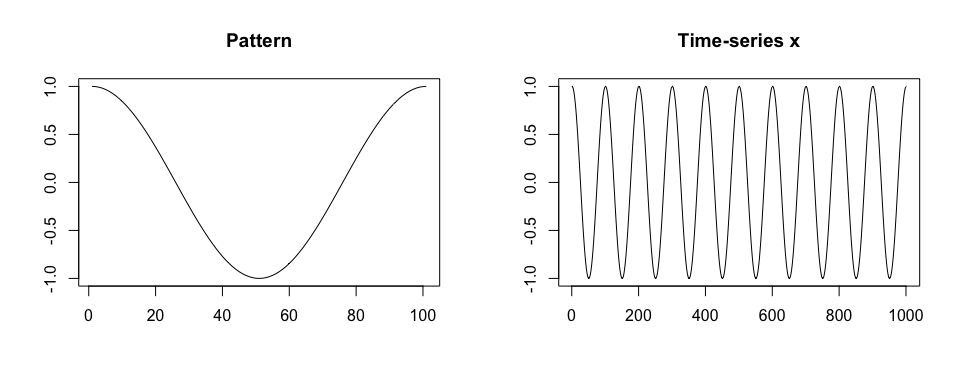
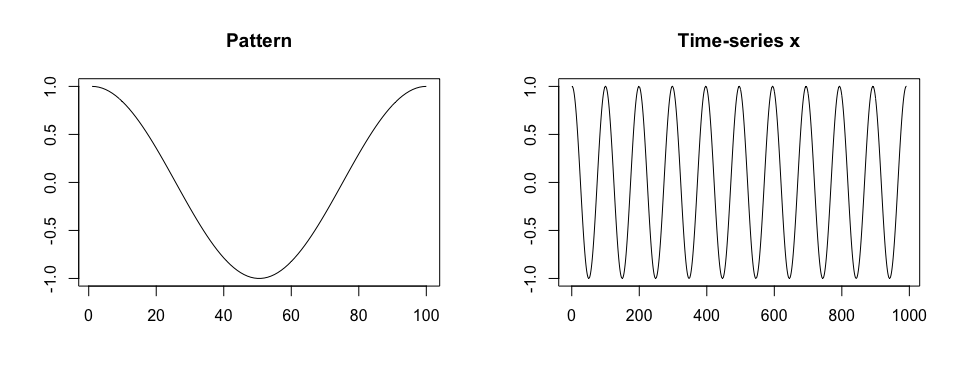
Update readme

diff --git a/docs/index.html b/docs/index.html
@@ -91,7 +91,11 @@
     
 
 <!-- README.md is generated from README.Rmd. Please edit that file -->
-<p>The <code>adept</code> package implements ADaptive Empirical Pattern Transformation (ADEPT) method<a href="#fn1" class="footnote-ref" id="fnref1"><sup>1</sup></a> for pattern segmentation from a time-series. ADEPT is designed to perform fast, accurate walking strides segmentation from high-density data collected with a wearable accelerometer during walking.</p>
+<div id="overview" class="section level3">
+<h3 class="hasAnchor">
+<a href="#overview" class="anchor"></a>Overview</h3>
+<p>The <code>adept</code> package implements ADaptive Empirical Pattern Transformation (ADEPT) method<a href="#fn1" class="footnote-ref" id="fnref1"><sup>1</sup></a> for pattern segmentation from a time-series. ADEPT is optimized to perform fast, accurate walking strides segmentation from high-density data collected with a wearable accelerometer during walking.</p>
+</div>
 <div id="installation" class="section level3">
 <h3 class="hasAnchor">
 <a href="#installation" class="anchor"></a>Installation</h3>
@@ -102,59 +106,59 @@
 <div id="example-1" class="section level3">
 <h3 class="hasAnchor">
 <a href="#example-1" class="anchor"></a>Example 1</h3>
-<p>Simulate a time-series <code>x</code>; assume that <code>x</code> is collected frequency of 100 Hz, there is one pattern of a fixed duration 1.01 seconds present in <code>x</code>, and there is no noise in collected data.</p>
-<div class="sourceCode" id="cb2"><pre class="sourceCode r"><code class="sourceCode r"><a class="sourceLine" id="cb2-1" title="1"><span class="kw"><a href="https://www.rdocumentation.org/packages/base/topics/library">library</a></span>(adept)</a>
-<a class="sourceLine" id="cb2-2" title="2"></a>
-<a class="sourceLine" id="cb2-3" title="3">x &lt;-<span class="st"> </span><span class="kw"><a href="https://www.rdocumentation.org/packages/base/topics/Trig">cos</a></span>(<span class="kw"><a href="https://www.rdocumentation.org/packages/base/topics/seq">seq</a></span>(<span class="dv">0</span>, <span class="dv">2</span> <span class="op">*</span><span class="st"> </span>pi <span class="op">*</span><span class="st"> </span><span class="dv">10</span>, <span class="dt">length.out =</span> <span class="dv">1001</span>))</a>
-<a class="sourceLine" id="cb2-4" title="4">true.pattern &lt;-<span class="st"> </span>x[<span class="dv">1</span><span class="op">:</span><span class="dv">101</span>]</a>
-<a class="sourceLine" id="cb2-5" title="5"></a>
-<a class="sourceLine" id="cb2-6" title="6"><span class="kw"><a href="https://www.rdocumentation.org/packages/graphics/topics/par">par</a></span>(<span class="dt">mfrow =</span> <span class="kw"><a href="https://www.rdocumentation.org/packages/base/topics/c">c</a></span>(<span class="dv">1</span>,<span class="dv">2</span>), <span class="dt">cex =</span> <span class="dv">1</span>)</a>
-<a class="sourceLine" id="cb2-7" title="7"><span class="kw"><a href="https://www.rdocumentation.org/packages/graphics/topics/plot">plot</a></span>(true.pattern, <span class="dt">type =</span> <span class="st">"l"</span>, <span class="dt">xlab =</span> <span class="st">""</span>, <span class="dt">ylab =</span> <span class="st">""</span>, <span class="dt">main =</span> <span class="st">"Pattern"</span>)</a>
-<a class="sourceLine" id="cb2-8" title="8"><span class="kw"><a href="https://www.rdocumentation.org/packages/graphics/topics/plot">plot</a></span>(x, <span class="dt">type =</span> <span class="st">"l"</span>, <span class="dt">xlab =</span> <span class="st">""</span>, <span class="dt">ylab =</span> <span class="st">""</span>, <span class="dt">main =</span> <span class="st">"Time-series x"</span>)</a></code></pre></div>
+<p>Simulate a time-series <code>x</code>; assume that <code>x</code> is collected frequency of 100 Hz, there is one pattern of a fixed duration of 1.0 seconds present in <code>x</code>, and there is no noise in collected data.</p>
+<div class="sourceCode" id="cb2"><pre class="sourceCode r"><code class="sourceCode r"><a class="sourceLine" id="cb2-1" title="1">true.pattern &lt;-<span class="st"> </span><span class="kw"><a href="https://www.rdocumentation.org/packages/base/topics/Trig">cos</a></span>(<span class="kw"><a href="https://www.rdocumentation.org/packages/base/topics/seq">seq</a></span>(<span class="dv">0</span>, <span class="dv">2</span> <span class="op">*</span><span class="st"> </span>pi, <span class="dt">length.out =</span> <span class="dv">100</span>))</a>
+<a class="sourceLine" id="cb2-2" title="2">x &lt;-<span class="st"> </span><span class="kw"><a href="https://www.rdocumentation.org/packages/base/topics/c">c</a></span>(true.pattern[<span class="dv">1</span>], <span class="kw"><a href="https://www.rdocumentation.org/packages/base/topics/lapply">replicate</a></span>(<span class="dv">10</span>, true.pattern[<span class="op">-</span><span class="dv">1</span>]))</a>
+<a class="sourceLine" id="cb2-3" title="3"></a>
+<a class="sourceLine" id="cb2-4" title="4"><span class="kw"><a href="https://www.rdocumentation.org/packages/graphics/topics/par">par</a></span>(<span class="dt">mfrow =</span> <span class="kw"><a href="https://www.rdocumentation.org/packages/base/topics/c">c</a></span>(<span class="dv">1</span>,<span class="dv">2</span>), <span class="dt">cex =</span> <span class="dv">1</span>)</a>
+<a class="sourceLine" id="cb2-5" title="5"><span class="kw"><a href="https://www.rdocumentation.org/packages/graphics/topics/plot">plot</a></span>(true.pattern, <span class="dt">type =</span> <span class="st">"l"</span>, <span class="dt">xlab =</span> <span class="st">""</span>, <span class="dt">ylab =</span> <span class="st">""</span>, <span class="dt">main =</span> <span class="st">"Pattern"</span>)</a>
+<a class="sourceLine" id="cb2-6" title="6"><span class="kw"><a href="https://www.rdocumentation.org/packages/graphics/topics/plot">plot</a></span>(x, <span class="dt">type =</span> <span class="st">"l"</span>, <span class="dt">xlab =</span> <span class="st">""</span>, <span class="dt">ylab =</span> <span class="st">""</span>, <span class="dt">main =</span> <span class="st">"Time-series x"</span>)</a></code></pre></div>
 <p><img src="reference/figures/README-unnamed-chunk-2-1.png" width="100%"></p>
-<p>Segment pattern from data. Assume perfect template is available. Use grid of potential pattern durations of {0.9, 1, 1.1} seconds.</p>
-<div class="sourceCode" id="cb3"><pre class="sourceCode r"><code class="sourceCode r"><a class="sourceLine" id="cb3-1" title="1"><span class="kw"><a href="reference/segmentPattern.html">segmentPattern</a></span>(</a>
-<a class="sourceLine" id="cb3-2" title="2">  <span class="dt">x =</span> x,</a>
-<a class="sourceLine" id="cb3-3" title="3">  <span class="dt">x.fs =</span> <span class="dv">100</span>,</a>
-<a class="sourceLine" id="cb3-4" title="4">  <span class="dt">template =</span> true.pattern,</a>
-<a class="sourceLine" id="cb3-5" title="5">  <span class="dt">pattern.dur.seq =</span> <span class="kw"><a href="https://www.rdocumentation.org/packages/base/topics/c">c</a></span>(<span class="fl">0.9</span>, <span class="dv">1</span>, <span class="fl">1.1</span>),</a>
-<a class="sourceLine" id="cb3-6" title="6">  <span class="dt">similarity.measure =</span> <span class="st">"cor"</span>,</a>
-<a class="sourceLine" id="cb3-7" title="7">  <span class="dt">compute.template.idx =</span> <span class="ot">TRUE</span>)</a>
-<a class="sourceLine" id="cb3-8" title="8"><span class="co">#&gt;    tau_i T_i     sim_i template_i</span></a>
-<a class="sourceLine" id="cb3-9" title="9"><span class="co">#&gt; 1      1 100 0.9994793          1</span></a>
-<a class="sourceLine" id="cb3-10" title="10"><span class="co">#&gt; 2    101 100 0.9994793          1</span></a>
-<a class="sourceLine" id="cb3-11" title="11"><span class="co">#&gt; 3    201 100 0.9994793          1</span></a>
-<a class="sourceLine" id="cb3-12" title="12"><span class="co">#&gt; 4    302 100 0.9994793          1</span></a>
-<a class="sourceLine" id="cb3-13" title="13"><span class="co">#&gt; 5    401 100 0.9994793          1</span></a>
-<a class="sourceLine" id="cb3-14" title="14"><span class="co">#&gt; 6    501 100 0.9994793          1</span></a>
-<a class="sourceLine" id="cb3-15" title="15"><span class="co">#&gt; 7    601 100 0.9994793          1</span></a>
-<a class="sourceLine" id="cb3-16" title="16"><span class="co">#&gt; 8    701 100 0.9994793          1</span></a>
-<a class="sourceLine" id="cb3-17" title="17"><span class="co">#&gt; 9    801 100 0.9994793          1</span></a>
-<a class="sourceLine" id="cb3-18" title="18"><span class="co">#&gt; 10   901 100 0.9994793          1</span></a></code></pre></div>
-<p>Assume grid of potential pattern durations of {0.9, 1.01, 1.1} seconds (the grid is now “perfect” in a sense it contains duration of the true pattern used in data simulation).</p>
+<p>Segment pattern from data. Assume that a perfect template is available. Use grid of potential pattern durations of {0.9, 0.95, 1.03, 1.1} seconds; the grid is imperfect in a sense it does not contain duration of the true pattern used in time-series <code>x</code> simulation.</p>
+<div class="sourceCode" id="cb3"><pre class="sourceCode r"><code class="sourceCode r"><a class="sourceLine" id="cb3-1" title="1"><span class="kw"><a href="https://www.rdocumentation.org/packages/base/topics/library">library</a></span>(adept)</a>
+<a class="sourceLine" id="cb3-2" title="2"></a>
+<a class="sourceLine" id="cb3-3" title="3"><span class="kw"><a href="reference/segmentPattern.html">segmentPattern</a></span>(</a>
+<a class="sourceLine" id="cb3-4" title="4">  <span class="dt">x =</span> x,</a>
+<a class="sourceLine" id="cb3-5" title="5">  <span class="dt">x.fs =</span> <span class="dv">100</span>,</a>
+<a class="sourceLine" id="cb3-6" title="6">  <span class="dt">template =</span> true.pattern,</a>
+<a class="sourceLine" id="cb3-7" title="7">  <span class="dt">pattern.dur.seq =</span> <span class="kw"><a href="https://www.rdocumentation.org/packages/base/topics/c">c</a></span>(<span class="fl">0.9</span>, <span class="fl">0.95</span>, <span class="fl">1.03</span>, <span class="fl">1.1</span>),</a>
+<a class="sourceLine" id="cb3-8" title="8">  <span class="dt">similarity.measure =</span> <span class="st">"cor"</span>,</a>
+<a class="sourceLine" id="cb3-9" title="9">  <span class="dt">compute.template.idx =</span> <span class="ot">TRUE</span>)</a>
+<a class="sourceLine" id="cb3-10" title="10"><span class="co">#&gt;    tau_i T_i     sim_i template_i</span></a>
+<a class="sourceLine" id="cb3-11" title="11"><span class="co">#&gt; 1      4  95 0.9987941          1</span></a>
+<a class="sourceLine" id="cb3-12" title="12"><span class="co">#&gt; 2     98 103 0.9992482          1</span></a>
+<a class="sourceLine" id="cb3-13" title="13"><span class="co">#&gt; 3    202  95 0.9987941          1</span></a>
+<a class="sourceLine" id="cb3-14" title="14"><span class="co">#&gt; 4    297 103 0.9992482          1</span></a>
+<a class="sourceLine" id="cb3-15" title="15"><span class="co">#&gt; 5    399  95 0.9987941          1</span></a>
+<a class="sourceLine" id="cb3-16" title="16"><span class="co">#&gt; 6    495 103 0.9992482          1</span></a>
+<a class="sourceLine" id="cb3-17" title="17"><span class="co">#&gt; 7    597  95 0.9987941          1</span></a>
+<a class="sourceLine" id="cb3-18" title="18"><span class="co">#&gt; 8    697  95 0.9987941          1</span></a>
+<a class="sourceLine" id="cb3-19" title="19"><span class="co">#&gt; 9    792 103 0.9992482          1</span></a>
+<a class="sourceLine" id="cb3-20" title="20"><span class="co">#&gt; 10   894  95 0.9987941          1</span></a></code></pre></div>
+<p>Assume grid of potential pattern durations of {0.9, 0.95, 1, 1.03, 1.1} seconds. The grid is now perfect in a sense it contains the duration of the true pattern used in data simulation. A perfect match <code>sim_i=1</code> between a time-series <code>x</code> and a template is reached.</p>
 <div class="sourceCode" id="cb4"><pre class="sourceCode r"><code class="sourceCode r"><a class="sourceLine" id="cb4-1" title="1"><span class="kw"><a href="reference/segmentPattern.html">segmentPattern</a></span>(</a>
 <a class="sourceLine" id="cb4-2" title="2">  <span class="dt">x =</span> x,</a>
 <a class="sourceLine" id="cb4-3" title="3">  <span class="dt">x.fs =</span> <span class="dv">100</span>,</a>
 <a class="sourceLine" id="cb4-4" title="4">  <span class="dt">template =</span> true.pattern,</a>
-<a class="sourceLine" id="cb4-5" title="5">  <span class="dt">pattern.dur.seq =</span> <span class="kw"><a href="https://www.rdocumentation.org/packages/base/topics/c">c</a></span>(<span class="fl">0.9</span>, <span class="fl">1.01</span>, <span class="fl">1.1</span>),</a>
+<a class="sourceLine" id="cb4-5" title="5">  <span class="dt">pattern.dur.seq =</span> <span class="kw"><a href="https://www.rdocumentation.org/packages/base/topics/c">c</a></span>(<span class="fl">0.9</span>, <span class="fl">0.95</span>, <span class="dv">1</span>, <span class="fl">1.03</span>, <span class="fl">1.1</span>),</a>
 <a class="sourceLine" id="cb4-6" title="6">  <span class="dt">similarity.measure =</span> <span class="st">"cor"</span>,</a>
 <a class="sourceLine" id="cb4-7" title="7">  <span class="dt">compute.template.idx =</span> <span class="ot">TRUE</span>)</a>
 <a class="sourceLine" id="cb4-8" title="8"><span class="co">#&gt;    tau_i T_i sim_i template_i</span></a>
-<a class="sourceLine" id="cb4-9" title="9"><span class="co">#&gt; 1      1 101     1          1</span></a>
-<a class="sourceLine" id="cb4-10" title="10"><span class="co">#&gt; 2    101 101     1          1</span></a>
-<a class="sourceLine" id="cb4-11" title="11"><span class="co">#&gt; 3    201 101     1          1</span></a>
-<a class="sourceLine" id="cb4-12" title="12"><span class="co">#&gt; 4    301 101     1          1</span></a>
-<a class="sourceLine" id="cb4-13" title="13"><span class="co">#&gt; 5    401 101     1          1</span></a>
-<a class="sourceLine" id="cb4-14" title="14"><span class="co">#&gt; 6    501 101     1          1</span></a>
-<a class="sourceLine" id="cb4-15" title="15"><span class="co">#&gt; 7    601 101     1          1</span></a>
-<a class="sourceLine" id="cb4-16" title="16"><span class="co">#&gt; 8    701 101     1          1</span></a>
-<a class="sourceLine" id="cb4-17" title="17"><span class="co">#&gt; 9    801 101     1          1</span></a>
-<a class="sourceLine" id="cb4-18" title="18"><span class="co">#&gt; 10   901 101     1          1</span></a></code></pre></div>
+<a class="sourceLine" id="cb4-9" title="9"><span class="co">#&gt; 1      1 100     1          1</span></a>
+<a class="sourceLine" id="cb4-10" title="10"><span class="co">#&gt; 2    100 100     1          1</span></a>
+<a class="sourceLine" id="cb4-11" title="11"><span class="co">#&gt; 3    199 100     1          1</span></a>
+<a class="sourceLine" id="cb4-12" title="12"><span class="co">#&gt; 4    298 100     1          1</span></a>
+<a class="sourceLine" id="cb4-13" title="13"><span class="co">#&gt; 5    397 100     1          1</span></a>
+<a class="sourceLine" id="cb4-14" title="14"><span class="co">#&gt; 6    496 100     1          1</span></a>
+<a class="sourceLine" id="cb4-15" title="15"><span class="co">#&gt; 7    595 100     1          1</span></a>
+<a class="sourceLine" id="cb4-16" title="16"><span class="co">#&gt; 8    694 100     1          1</span></a>
+<a class="sourceLine" id="cb4-17" title="17"><span class="co">#&gt; 9    793 100     1          1</span></a>
+<a class="sourceLine" id="cb4-18" title="18"><span class="co">#&gt; 10   892 100     1          1</span></a></code></pre></div>
 </div>
 <div id="example-2" class="section level3">
 <h3 class="hasAnchor">
 <a href="#example-2" class="anchor"></a>Example 2</h3>
-<p>Simulate a time-series <code>x</code>; assume that time-series is collected frequency of 100 Hz, there are two patterns of various duration present in <code>x</code>, and there is noise in collected data.</p>
+<p>Simulate a time-series <code>x</code>; assume that <code>x</code> is collected frequency of 100 Hz, there are two patterns of various duration present in <code>x</code>, and there is noise in collected data.</p>
 <p>Then, generate <code>x2</code> as a noisy version of <code>x</code>.</p>
 <div class="sourceCode" id="cb5"><pre class="sourceCode r"><code class="sourceCode r"><a class="sourceLine" id="cb5-1" title="1">true.pattern<span class="fl">.1</span> &lt;-<span class="st"> </span><span class="kw"><a href="https://www.rdocumentation.org/packages/base/topics/Trig">cos</a></span>(<span class="kw"><a href="https://www.rdocumentation.org/packages/base/topics/seq">seq</a></span>(<span class="dv">0</span>, <span class="dv">2</span> <span class="op">*</span><span class="st"> </span>pi, <span class="dt">length.out =</span> <span class="dv">200</span>))</a>
 <a class="sourceLine" id="cb5-2" title="2">true.pattern<span class="fl">.2</span> &lt;-<span class="st"> </span>true.pattern<span class="fl">.1</span></a>
@@ -182,7 +186,7 @@
 <p><img src="reference/figures/README-unnamed-chunk-5-2.png" width="100%"></p>
 <div class="sourceCode" id="cb7"><pre class="sourceCode r"><code class="sourceCode r"><a class="sourceLine" id="cb7-1" title="1"><span class="kw"><a href="https://www.rdocumentation.org/packages/graphics/topics/plot">plot</a></span>(x2, <span class="dt">type =</span> <span class="st">"l"</span>, <span class="dt">xlab =</span> <span class="st">""</span>, <span class="dt">ylab =</span> <span class="st">""</span>, <span class="dt">main =</span> <span class="st">"Time-series x2"</span>)</a></code></pre></div>
 <p><img src="reference/figures/README-unnamed-chunk-5-3.png" width="100%"></p>
-<p>Assume perfect grid of potential pattern duration, {0.7, 0.8, 0.9, 1.0, 1.1, 1.2, 1.3} seconds. Segment <code>x</code>.</p>
+<p>Assume a perfect grid of potential pattern duration, {0.7, 0.8, 0.9, 1.0, 1.1, 1.2, 1.3} seconds. Segment <code>x</code>.</p>
 <div class="sourceCode" id="cb8"><pre class="sourceCode r"><code class="sourceCode r"><a class="sourceLine" id="cb8-1" title="1"><span class="kw"><a href="reference/segmentPattern.html">segmentPattern</a></span>(</a>
 <a class="sourceLine" id="cb8-2" title="2">  <span class="dt">x =</span> x,</a>
 <a class="sourceLine" id="cb8-3" title="3">  <span class="dt">x.fs =</span> <span class="dv">100</span>,</a>
@@ -227,7 +231,7 @@
 <a class="sourceLine" id="cb9-19" title="19"><span class="co">#&gt; 11  1017 110 0.6599280          1</span></a>
 <a class="sourceLine" id="cb9-20" title="20"><span class="co">#&gt; 12  1129 130 0.7938183          1</span></a>
 <a class="sourceLine" id="cb9-21" title="21"><span class="co">#&gt; 13  1267 120 0.7655408          2</span></a></code></pre></div>
-<p>Segment <code>x2</code>; smooth data time-series before similarity matrix computation. Assume more dense grid of potential pattern duration.</p>
+<p>Segment <code>x2</code>; smooth data time-series before similarity matrix computation. Assume a more dense grid of potential pattern duration.</p>
 <div class="sourceCode" id="cb10"><pre class="sourceCode r"><code class="sourceCode r"><a class="sourceLine" id="cb10-1" title="1"><span class="kw"><a href="https://www.rdocumentation.org/packages/graphics/topics/par">par</a></span>(<span class="dt">mfrow =</span> <span class="kw"><a href="https://www.rdocumentation.org/packages/base/topics/c">c</a></span>(<span class="dv">1</span>,<span class="dv">1</span>), <span class="dt">cex =</span> <span class="dv">1</span>)</a>
 <a class="sourceLine" id="cb10-2" title="2"><span class="kw"><a href="https://www.rdocumentation.org/packages/graphics/topics/plot">plot</a></span>(<span class="kw"><a href="reference/windowSmooth.html">windowSmooth</a></span>(<span class="dt">x =</span> x2, <span class="dt">x.fs =</span> <span class="dv">100</span>, <span class="dt">W =</span> <span class="fl">0.1</span>), </a>
 <a class="sourceLine" id="cb10-3" title="3">     <span class="dt">type =</span> <span class="st">"l"</span>, <span class="dt">xlab =</span> <span class="st">""</span>, <span class="dt">ylab =</span> <span class="st">""</span>, <span class="dt">main =</span> <span class="st">"Time-series x2 smoothed"</span>)</a></code></pre></div>
@@ -270,7 +274,10 @@
 </ol>
 </li>
 </ol>
-<p>References</p>
+</div>
+<div id="references" class="section level3">
+<h3 class="hasAnchor">
+<a href="#references" class="anchor"></a>References</h3>
 </div>
 <div class="footnotes">
 <hr>

diff --git a/docs/articles/adept-strides-segmentation.html b/docs/articles/adept-strides-segmentation.html
@@ -88,7 +88,7 @@
                         <h4 class="author">Ciprian Crainiceanu</h4>
                         <h4 class="author">Jacek Urbanek</h4>
             
-            <h4 class="date">2019-05-06</h4>
+            <h4 class="date">2019-05-07</h4>
       
       <small class="dont-index">Source: <a href="https://github.com/martakarass/adept/blob/master/vignettes/adept-strides-segmentation.Rmd"><code>vignettes/adept-strides-segmentation.Rmd</code></a></small>
       <div class="hidden name"><code>adept-strides-segmentation.Rmd</code></div>

diff --git a/docs/articles/adept-intro.html b/docs/articles/adept-intro.html
@@ -88,7 +88,7 @@
                         <h4 class="author">Ciprian Crainiceanu</h4>
                         <h4 class="author">Jacek Urbanek</h4>
             
-            <h4 class="date">2019-05-06</h4>
+            <h4 class="date">2019-05-07</h4>
       
       <small class="dont-index">Source: <a href="https://github.com/martakarass/adept/blob/master/vignettes/adept-intro.Rmd"><code>vignettes/adept-intro.Rmd</code></a></small>
       <div class="hidden name"><code>adept-intro.Rmd</code></div>

diff --git a/README.md b/README.md
@@ -8,9 +8,11 @@ status](https://codecov.io/gh/martakarass/adept/branch/master/graph/badge.svg)](
 
 <!-- README.md is generated from README.Rmd. Please edit that file -->
 
+### Overview
+
 The `adept` package implements ADaptive Empirical Pattern Transformation
 (ADEPT) method\[1\] for pattern segmentation from a time-series. ADEPT
-is designed to perform fast, accurate walking strides segmentation from
+is optimized to perform fast, accurate walking strides segmentation from
 high-density data collected with a wearable accelerometer during
 walking.
 
@@ -26,14 +28,12 @@ devtools::install_github("martakarass/adept")
 ### Example 1
 
 Simulate a time-series `x`; assume that `x` is collected frequency of
-100 Hz, there is one pattern of a fixed duration 1.01 seconds present in
-`x`, and there is no noise in collected data.
+100 Hz, there is one pattern of a fixed duration of 1.0 seconds present
+in `x`, and there is no noise in collected data.
 
 ``` r
-library(adept)
-
-x <- cos(seq(0, 2 * pi * 10, length.out = 1001))
-true.pattern <- x[1:101]
+true.pattern <- cos(seq(0, 2 * pi, length.out = 100))
+x <- c(true.pattern[1], replicate(10, true.pattern[-1]))
 
 par(mfrow = c(1,2), cex = 1)
 plot(true.pattern, type = "l", xlab = "", ylab = "", main = "Pattern")
@@ -42,60 +42,65 @@ plot(x, type = "l", xlab = "", ylab = "", main = "Time-series x")
 
 <img src="man/figures/README-unnamed-chunk-2-1.png" width="100%" />
 
-Segment pattern from data. Assume perfect template is available. Use
-grid of potential pattern durations of {0.9, 1, 1.1} seconds.
+Segment pattern from data. Assume that a perfect template is available.
+Use grid of potential pattern durations of {0.9, 0.95, 1.03, 1.1}
+seconds; the grid is imperfect in a sense it does not contain duration
+of the true pattern used in time-series `x` simulation.
 
 ``` r
+library(adept)
+
 segmentPattern(
   x = x,
   x.fs = 100,
   template = true.pattern,
-  pattern.dur.seq = c(0.9, 1, 1.1),
+  pattern.dur.seq = c(0.9, 0.95, 1.03, 1.1),
   similarity.measure = "cor",
   compute.template.idx = TRUE)
 #>    tau_i T_i     sim_i template_i
-#> 1      1 100 0.9994793          1
-#> 2    101 100 0.9994793          1
-#> 3    201 100 0.9994793          1
-#> 4    302 100 0.9994793          1
-#> 5    401 100 0.9994793          1
-#> 6    501 100 0.9994793          1
-#> 7    601 100 0.9994793          1
-#> 8    701 100 0.9994793          1
-#> 9    801 100 0.9994793          1
-#> 10   901 100 0.9994793          1
+#> 1      4  95 0.9987941          1
+#> 2     98 103 0.9992482          1
+#> 3    202  95 0.9987941          1
+#> 4    297 103 0.9992482          1
+#> 5    399  95 0.9987941          1
+#> 6    495 103 0.9992482          1
+#> 7    597  95 0.9987941          1
+#> 8    697  95 0.9987941          1
+#> 9    792 103 0.9992482          1
+#> 10   894  95 0.9987941          1
 ```
 
-Assume grid of potential pattern durations of {0.9, 1.01, 1.1} seconds
-(the grid is now “perfect” in a sense it contains duration of the true
-pattern used in data simulation).
+Assume grid of potential pattern durations of {0.9, 0.95, 1, 1.03, 1.1}
+seconds. The grid is now perfect in a sense it contains the duration of
+the true pattern used in data simulation. A perfect match `sim_i=1`
+between a time-series `x` and a template is reached.
 
 ``` r
 segmentPattern(
   x = x,
   x.fs = 100,
   template = true.pattern,
-  pattern.dur.seq = c(0.9, 1.01, 1.1),
+  pattern.dur.seq = c(0.9, 0.95, 1, 1.03, 1.1),
   similarity.measure = "cor",
   compute.template.idx = TRUE)
 #>    tau_i T_i sim_i template_i
-#> 1      1 101     1          1
-#> 2    101 101     1          1
-#> 3    201 101     1          1
-#> 4    301 101     1          1
-#> 5    401 101     1          1
-#> 6    501 101     1          1
-#> 7    601 101     1          1
-#> 8    701 101     1          1
-#> 9    801 101     1          1
-#> 10   901 101     1          1
+#> 1      1 100     1          1
+#> 2    100 100     1          1
+#> 3    199 100     1          1
+#> 4    298 100     1          1
+#> 5    397 100     1          1
+#> 6    496 100     1          1
+#> 7    595 100     1          1
+#> 8    694 100     1          1
+#> 9    793 100     1          1
+#> 10   892 100     1          1
 ```
 
 ### Example 2
 
-Simulate a time-series `x`; assume that time-series is collected
-frequency of 100 Hz, there are two patterns of various duration present
-in `x`, and there is noise in collected data.
+Simulate a time-series `x`; assume that `x` is collected frequency of
+100 Hz, there are two patterns of various duration present in `x`, and
+there is noise in collected data.
 
 Then, generate `x2` as a noisy version of `x`.
 
@@ -137,8 +142,8 @@ plot(x2, type = "l", xlab = "", ylab = "", main = "Time-series x2")
 
 <img src="man/figures/README-unnamed-chunk-5-3.png" width="100%" />
 
-Assume perfect grid of potential pattern duration, {0.7, 0.8, 0.9, 1.0,
-1.1, 1.2, 1.3} seconds. Segment `x`.
+Assume a perfect grid of potential pattern duration, {0.7, 0.8, 0.9,
+1.0, 1.1, 1.2, 1.3} seconds. Segment `x`.
 
 ``` r
 segmentPattern(
@@ -192,7 +197,7 @@ segmentPattern(
 ```
 
 Segment `x2`; smooth data time-series before similarity matrix
-computation. Assume more dense grid of potential pattern duration.
+computation. Assume a more dense grid of potential pattern duration.
 
 ``` r
 par(mfrow = c(1,1), cex = 1)
@@ -252,7 +257,7 @@ Vignettes are available to better demonstrate package methods usgae.
         data from an external study (attached to `adeptdata` package),
     2.  by deriving new stride templates in a semi-manual manner.
 
-References
+### References
 
 1.  Karas, M., Straczkiewicz, M., Fadel, W., Harezlak, J., Crainiceanu,
     C., Urbanek, J.K. *Adaptive empirical pattern transformation (ADEPT)
